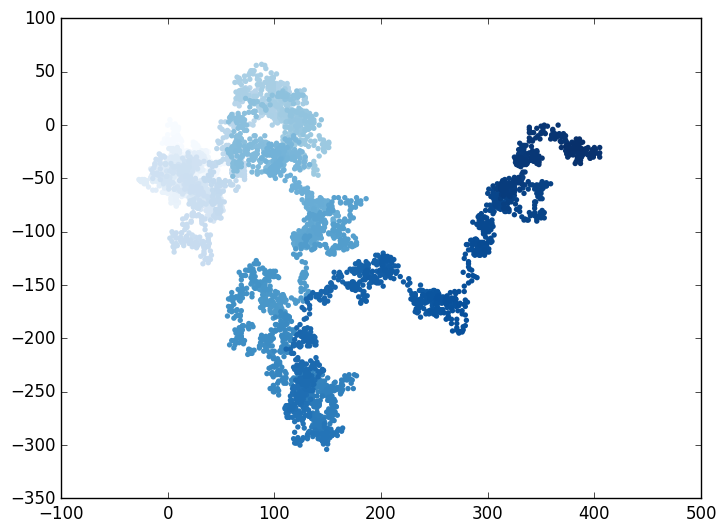
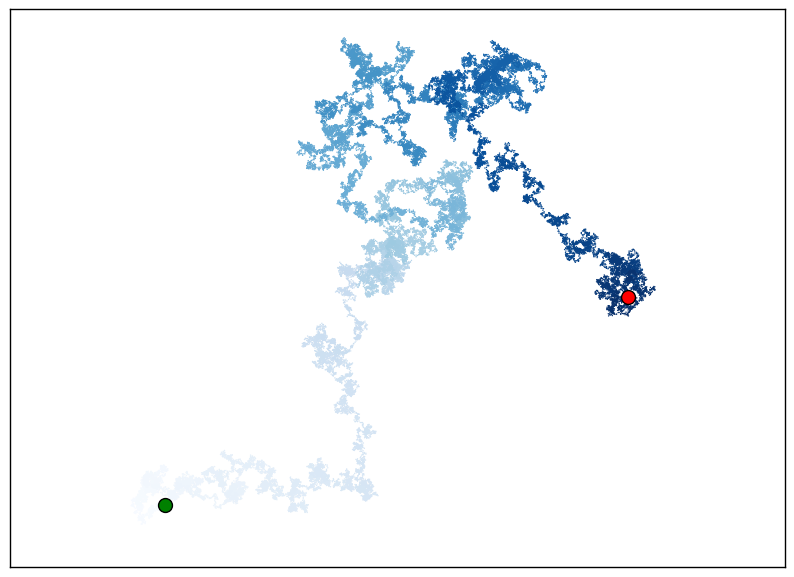
Modify plot and add updated outputs

Changed region(s): [[0.0, 0.0, 1.0, 0.9925], [0.2727, 0.782, 0.3333, 0.8421], [0.1818, 0.8421, 0.2424, 0.9023]]

diff --git a/random_walks_plot/plot.py b/random_walks_plot/plot.py
@@ -8,18 +8,24 @@ plot = 1
 while True:
 
     #Initializing the class
-    rw = RandomWalk()
+    rw = RandomWalk(50000)
     rw.fill_walks()
 
     plt.style.use('classic')
-    fig, ax = plt.subplots(figsize=(15, 12))
+    fig, ax = plt.subplots(figsize=(10, 8), dpi = 128)
 
     points = range(rw.num_points)
 
     #Scatter plot using colormap
-    ax.scatter(rw.x_values, rw.y_values, c=points, cmap=plt.cm.Blues, edgecolors='none', s=15)
+    ax.scatter(rw.x_values, rw.y_values, c=points, cmap=plt.cm.Blues, edgecolors='none', s=1)
+    ax.scatter(0, 0, c='green', s=100)
+    ax.scatter(rw.x_values[-1], rw.y_values[-1], c='red', s=100)
     
     ax.set_aspect('equal')
+
+    #Remove the axes
+    ax.get_xaxis().set_visible(False)
+    ax.get_yaxis().set_visible(False)
 
     #Save the plot into a file
     filename = f'output{plot}'
